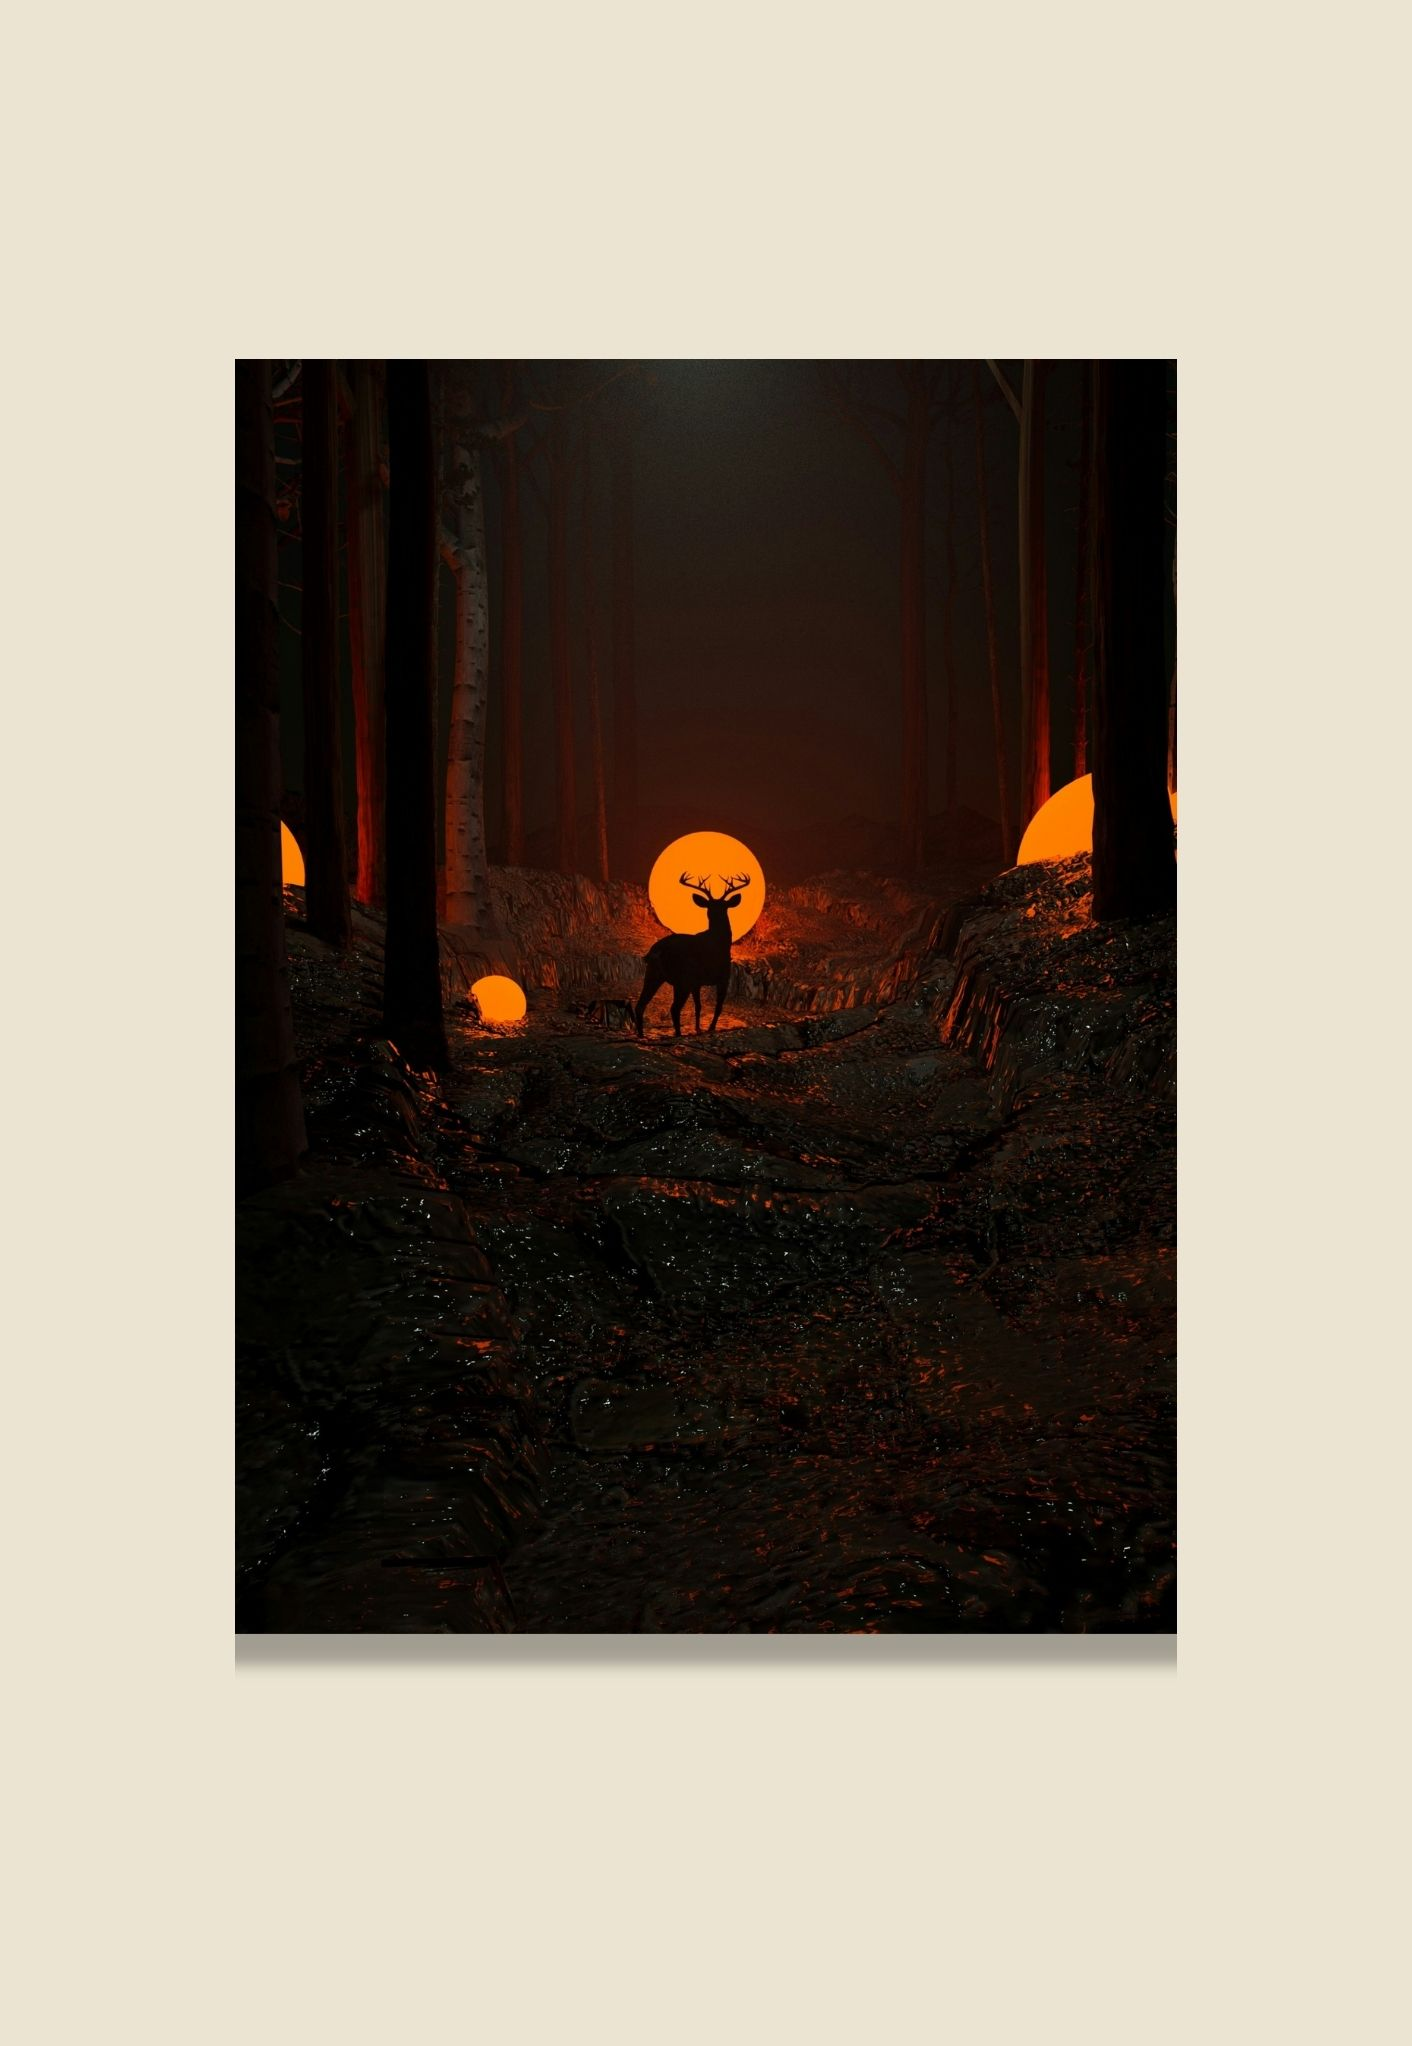
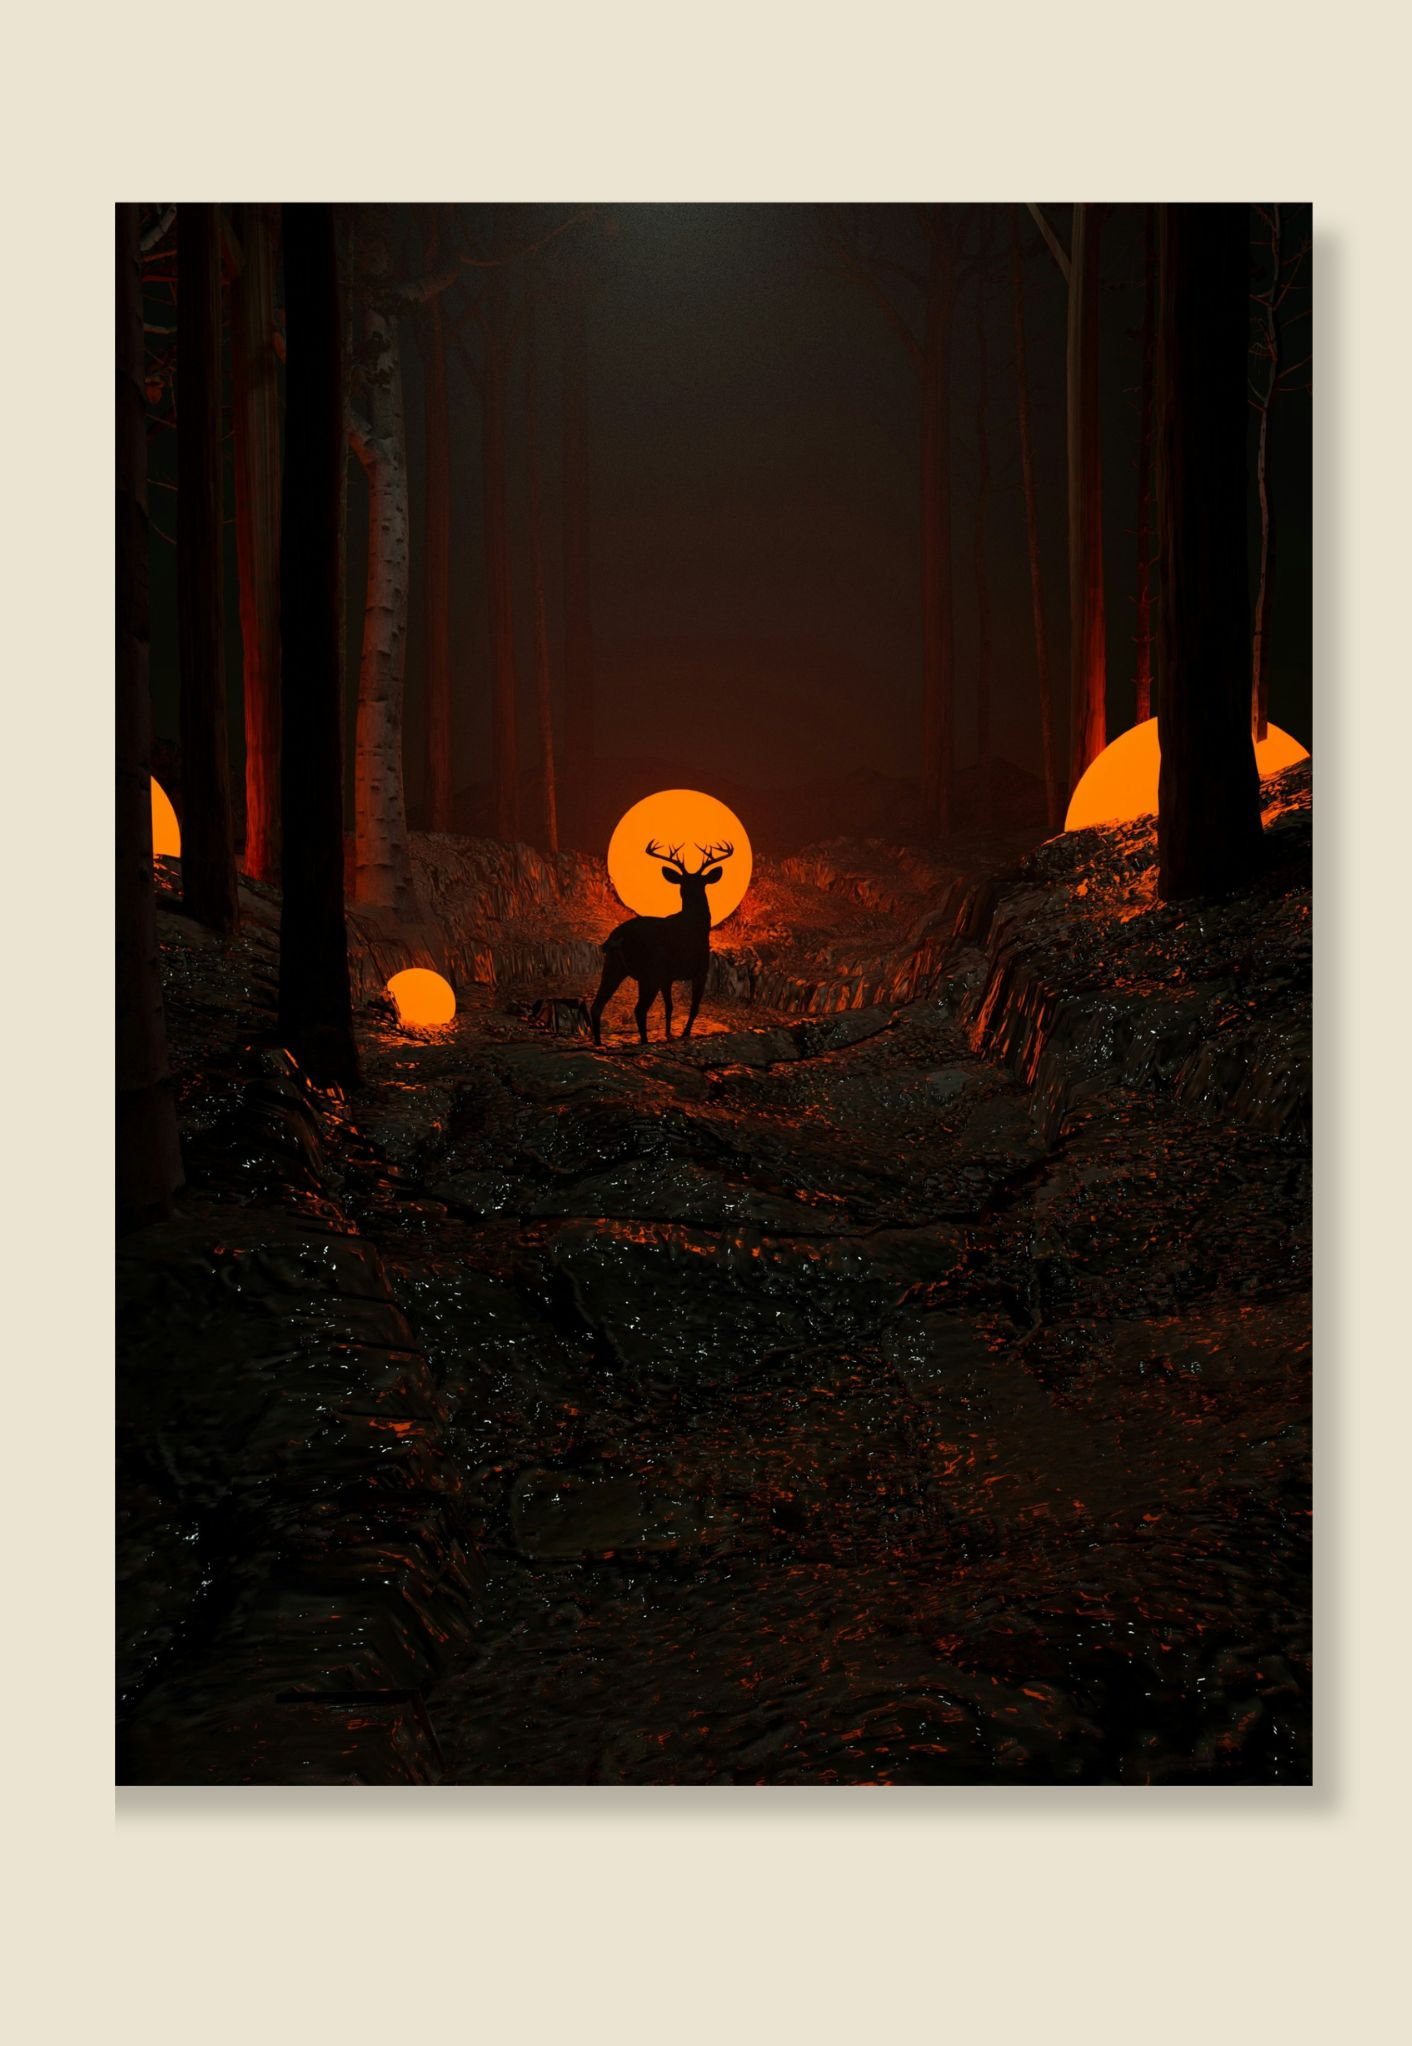
tilføjet produktbilleder og videoer.

diff --git a/js/products.js b/js/products.js
@@ -140,5 +140,40 @@ const products = [
         }
     },
 
+    {
+        slug: "faldne-sole",
+        title: "Faldne sole",
+        artist: "OMK",
+
+        description: "Bring noget varme og ro ind i hjemmet med det her skønne lille værk af Nana Rooed. Det er perfekt til hvor som helst hvor du mangler farve og roligt spil på din væg.",
+        artistDescription: "Nana Rooed er en kreativ sjæl som holder af at bruge oliekridt og klasiske tucsher. Hendes udtryk bærer derfor også meget præg af teksture og stemninger.",
+        materials: "Printet produceres lokalt i Danmark på kvalitetspapir. Leveringstid og fragt vises ved checkout.",
+
+        images: [
+            {
+                src: "images/faldne-sole-1.jpg",
+                alt: "print af faldne sole"
+            },
+            {
+                src: "images/faldne-sole-2.jpg",
+                alt: "print af faldne sole i ramme"
+            },
+            {
+                src: "images/faldne-sole-3.jpg",
+                alt: "print af faldne sole på væggen"
+            },
+            {
+                src: "images/faldne-sole-4.jpg",
+                alt: "detaljeret print af faldne sole"
+            }
+        ],
+
+        video: {
+            src: "video/faldne-video.mp4",
+            type: "video/mp4",
+            label: "produktvideo"
+        }
+    },
+
 
 ];